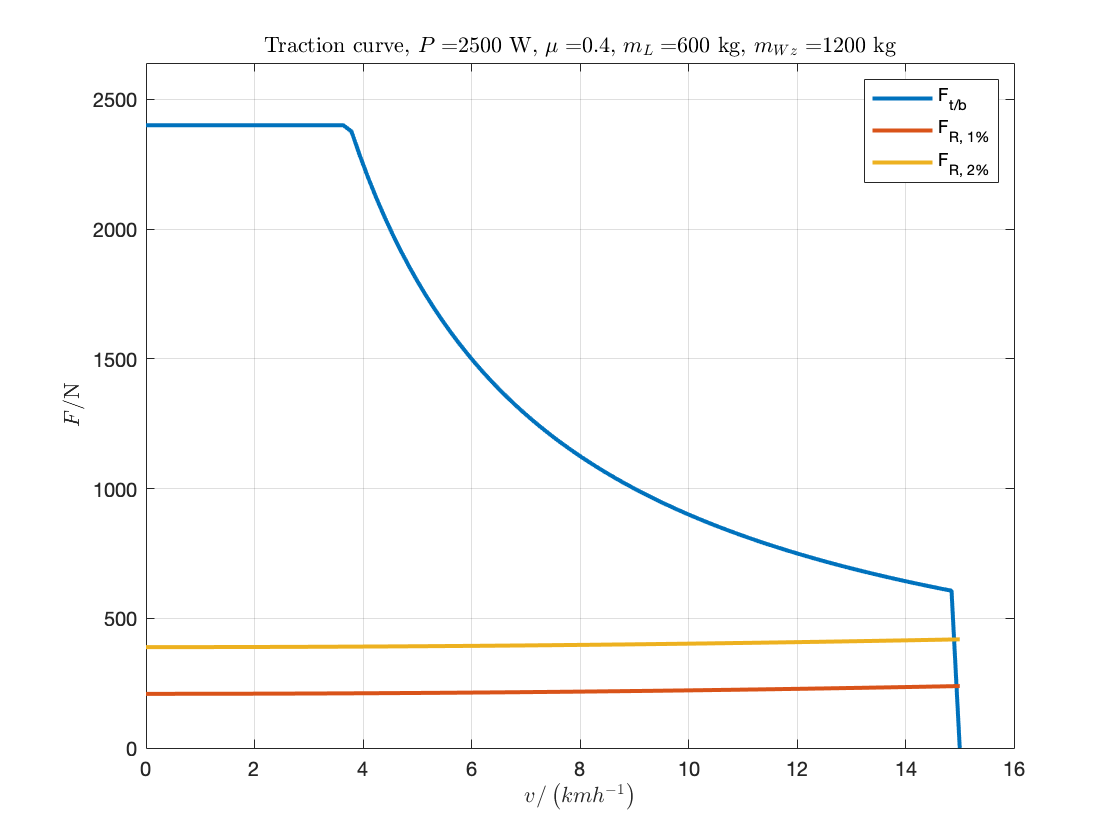
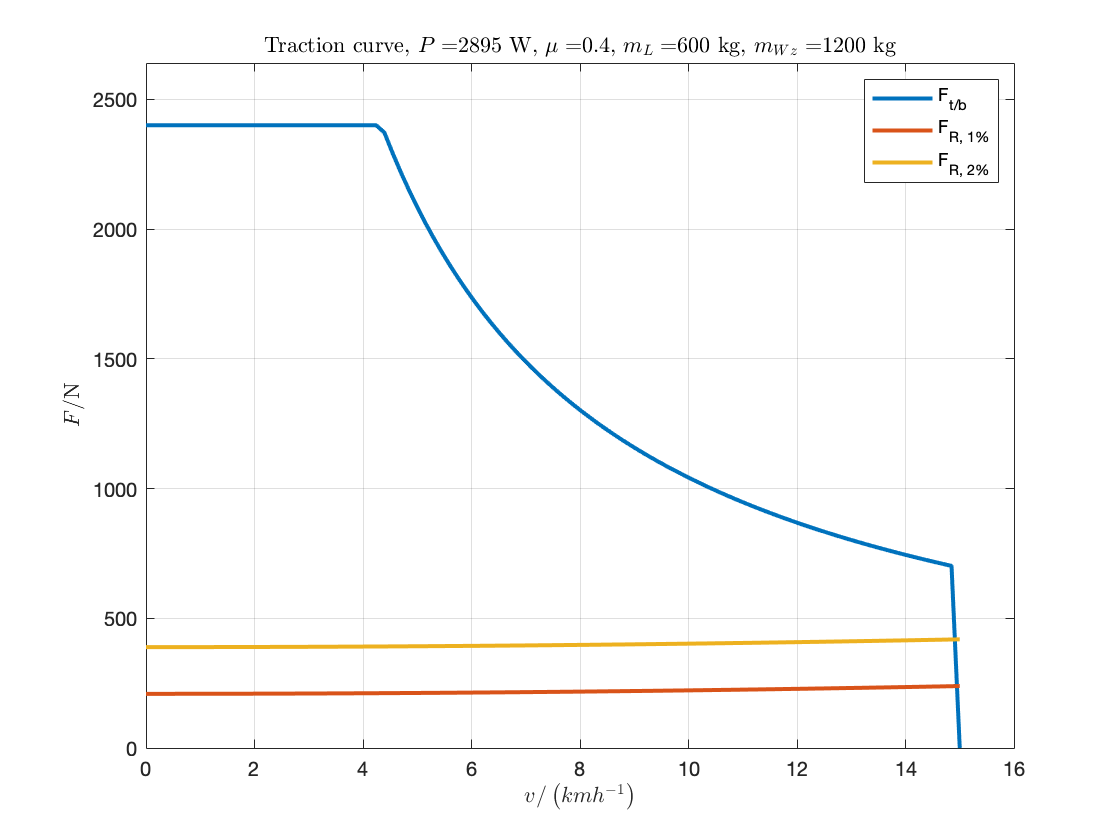
Changed power to observation

diff --git a/TractionCurve/TractionCurve.m b/TractionCurve/TractionCurve.m
@@ -1,6 +1,6 @@
 clear all, close all, %clc
 
-I = 50; %A
+I = 57.9; %A
 U = 50; %V
 
 mu = 0.4;
